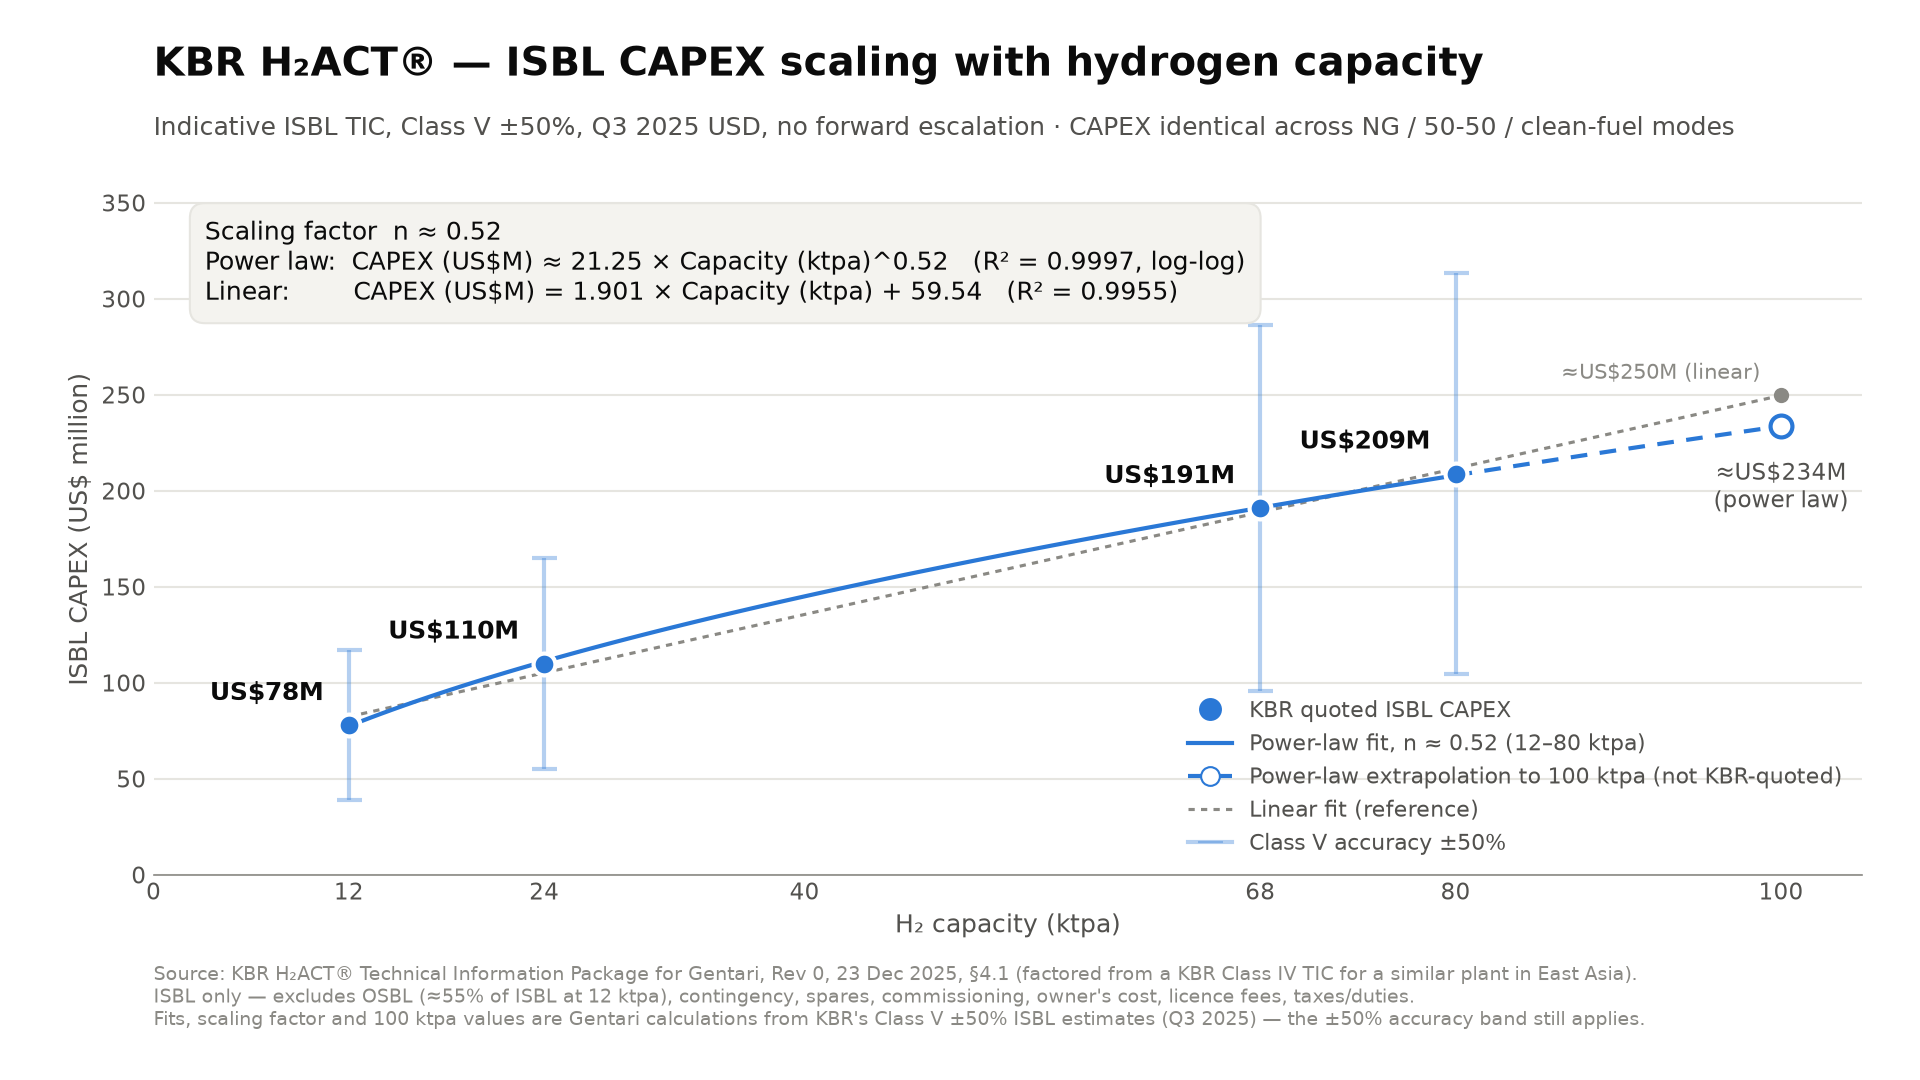
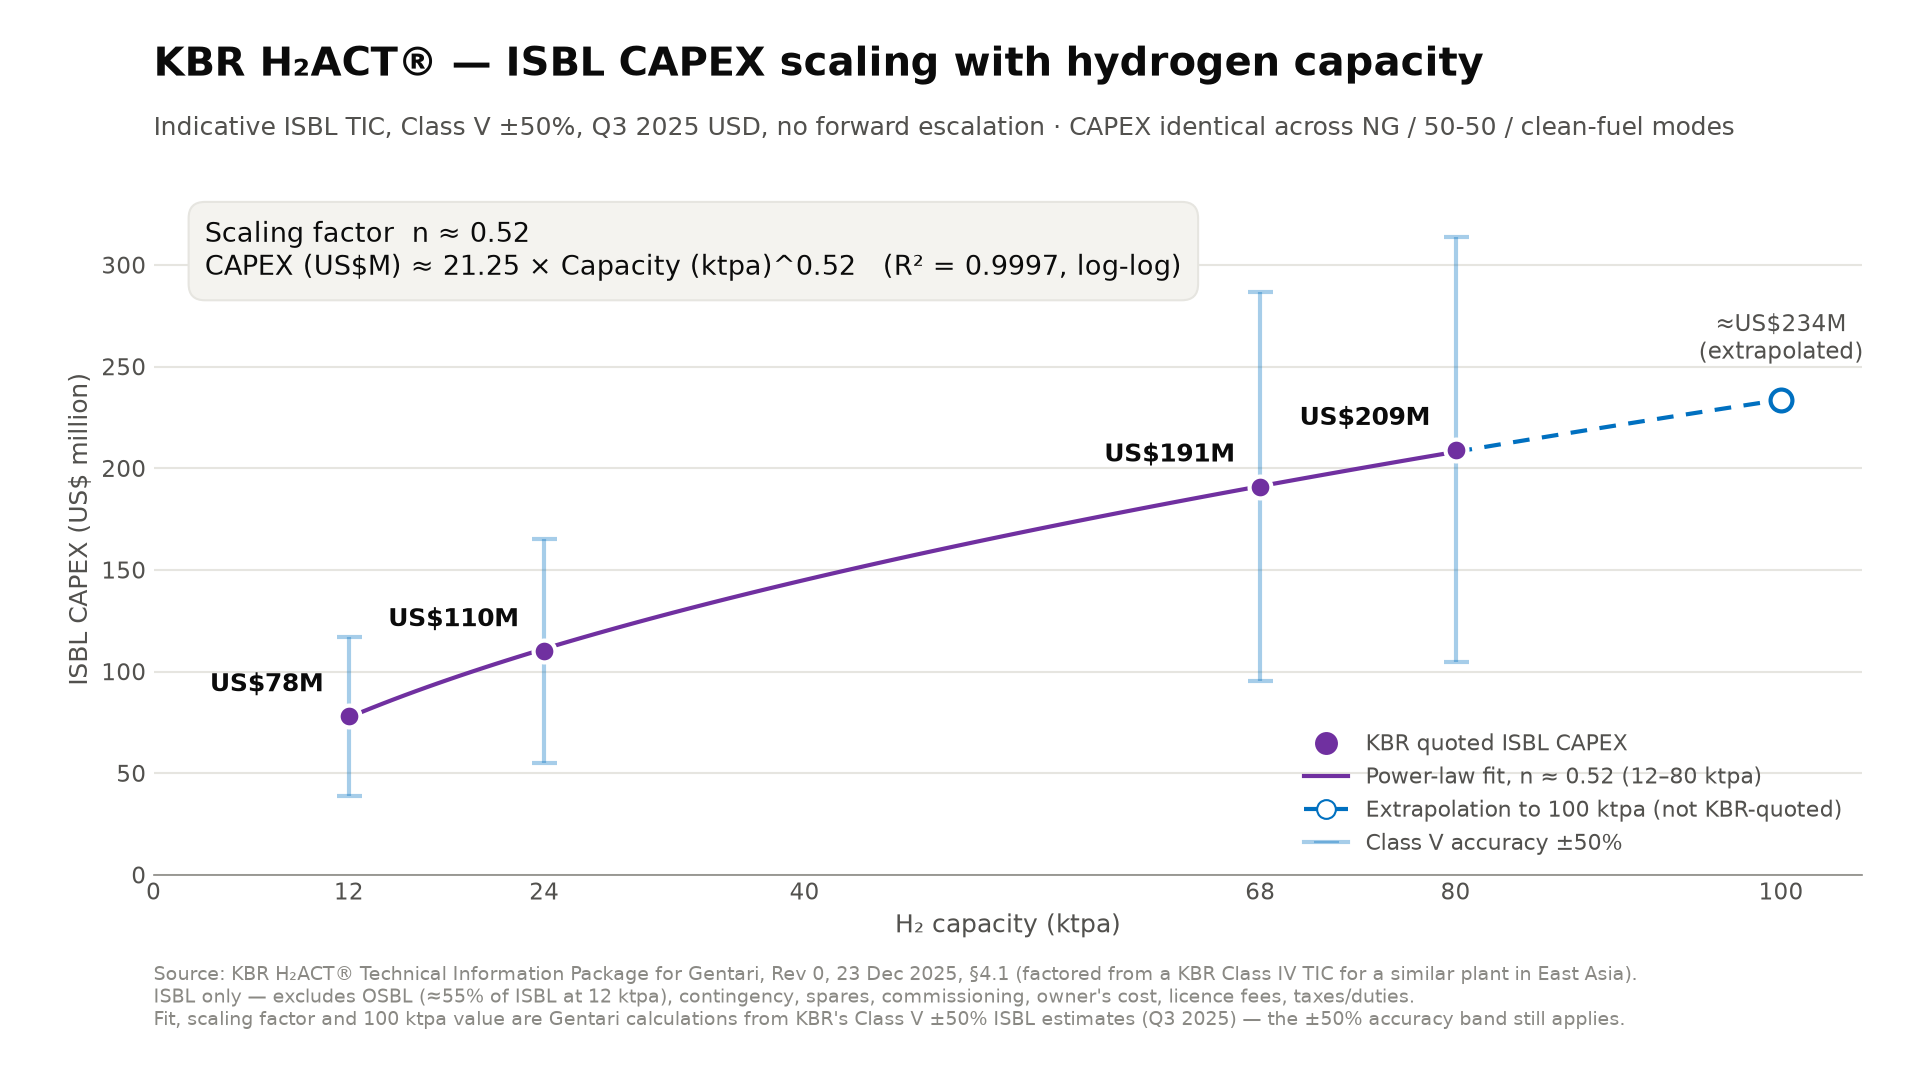
KBR CAPEX chart: power-law only, deck colours
Remove the linear reference line; use #7030A0 for quoted points and the
fitted curve, #0070C0 for the 100 ktpa extrapolation and ±50% bars.

Claude-Session: https://claude.ai/code/session_015mp414dpgytFbnaSBdpmmx

diff --git a/tools/kbr_capex_chart.py b/tools/kbr_capex_chart.py
@@ -1,4 +1,4 @@
-"""KBR H2ACT ISBL CAPEX vs H2 capacity -- power-law (n ~ 0.52) + linear fits, deck PNG.
+"""KBR H2ACT ISBL CAPEX vs H2 capacity -- power-law scaling (n ~ 0.52), deck PNG.
 
 Data: Licensor/kbr/kbr-johor-hub.md §4.1 (ISBL TIC, Class V ±50%, Q3 2025,
 no forward escalation). Output: tcoedatabase/figures/kbr_capex_scaling.png
@@ -9,6 +9,7 @@ from pathlib import Path
 import matplotlib
 matplotlib.use("Agg")
 import matplotlib.pyplot as plt
+from matplotlib.lines import Line2D
 import numpy as np
 
 CAP_KTPA = np.array([12, 24, 68, 80], dtype=float)
@@ -17,26 +18,16 @@ ACCURACY = 0.50  # Class V ±50% (kbr-johor-hub.md §4.1)
 EXTRAP_KTPA = 100
 
 INK, INK_2, MUTED, GRID = "#0b0b0b", "#52514e", "#8a8984", "#e6e5e0"
-SERIES = "#2a78d6"
+MAIN = "#7030A0"       # quoted points + fitted curve
+SECONDARY = "#0070C0"  # derived extrapolation + accuracy band
 SURFACE = "#ffffff"
 
-REF = "#8a8984"  # linear reference line (secondary)
-
-
-def r_squared(y, yhat):
-    return 1 - ((y - yhat) ** 2).sum() / ((y - y.mean()) ** 2).sum()
-
-
-# Power law (primary): CAPEX = a * cap^n, least squares in log-log space
+# Power law: CAPEX = a * cap^n, least squares in log-log space
 n, ln_a = np.polyfit(np.log(CAP_KTPA), np.log(CAPEX_MUSD), 1)
 a = np.exp(ln_a)
-r2_pow = r_squared(np.log(CAPEX_MUSD), n * np.log(CAP_KTPA) + ln_a)
+ln_y = np.log(CAPEX_MUSD)
+r2 = 1 - ((ln_y - (n * np.log(CAP_KTPA) + ln_a)) ** 2).sum() / ((ln_y - ln_y.mean()) ** 2).sum()
 extrap = a * EXTRAP_KTPA ** n
-
-# Linear (reference): CAPEX = m * cap + c
-m, c = np.polyfit(CAP_KTPA, CAPEX_MUSD, 1)
-r2_lin = r_squared(CAPEX_MUSD, m * CAP_KTPA + c)
-extrap_lin = m * EXTRAP_KTPA + c
 
 plt.rcParams.update({"font.family": "DejaVu Sans", "font.size": 11})
 fig, ax = plt.subplots(figsize=(12.8, 7.2), dpi=150, facecolor=SURFACE)
@@ -45,45 +36,36 @@ fig.subplots_adjust(left=0.08, right=0.97, top=0.83, bottom=0.19)
 
 # Class V ±50% accuracy band per quoted point
 ax.errorbar(CAP_KTPA, CAPEX_MUSD, yerr=CAPEX_MUSD * ACCURACY, fmt="none",
-            ecolor=SERIES, alpha=0.35, elinewidth=2, capsize=6, capthick=2, zorder=2)
-
-# Linear reference line (secondary, muted)
-xl = np.linspace(CAP_KTPA.min(), EXTRAP_KTPA, 50)
-ax.plot(xl, m * xl + c, color=REF, lw=1.5, ls=(0, (2, 2)), zorder=2)
+            ecolor=SECONDARY, alpha=0.35, elinewidth=2, capsize=6, capthick=2, zorder=2)
 
 # Power-law curve across quoted range, dashed extrapolation beyond it
 xs = np.linspace(CAP_KTPA.min(), CAP_KTPA.max(), 100)
-ax.plot(xs, a * xs ** n, color=SERIES, lw=2, zorder=3)
+ax.plot(xs, a * xs ** n, color=MAIN, lw=2, zorder=3)
 xe = np.linspace(CAP_KTPA.max(), EXTRAP_KTPA, 30)
-ax.plot(xe, a * xe ** n, color=SERIES, lw=2, ls=(0, (4, 3)), zorder=3)
+ax.plot(xe, a * xe ** n, color=SECONDARY, lw=2, ls=(0, (4, 3)), zorder=3)
 
 # Quoted points (surface ring) + extrapolated point (hollow)
-ax.scatter(CAP_KTPA, CAPEX_MUSD, s=110, color=SERIES, edgecolor=SURFACE,
+ax.scatter(CAP_KTPA, CAPEX_MUSD, s=110, color=MAIN, edgecolor=SURFACE,
            linewidth=2, zorder=4)
-ax.scatter([EXTRAP_KTPA], [extrap], s=110, facecolor=SURFACE, edgecolor=SERIES,
+ax.scatter([EXTRAP_KTPA], [extrap], s=110, facecolor=SURFACE, edgecolor=SECONDARY,
            linewidth=2, zorder=4)
 
 for x, y in zip(CAP_KTPA, CAPEX_MUSD):
     ax.annotate(f"US${y:.0f}M", (x, y), xytext=(-12, 12), textcoords="offset points",
                 ha="right", fontsize=12, fontweight="bold", color=INK)
-ax.annotate(f"≈US${extrap:.0f}M\n(power law)", (EXTRAP_KTPA, extrap),
-            xytext=(0, -16), textcoords="offset points", ha="center", va="top",
+ax.annotate(f"≈US${extrap:.0f}M\n(extrapolated)", (EXTRAP_KTPA, extrap),
+            xytext=(0, 16), textcoords="offset points", ha="center", va="bottom",
             fontsize=11, color=INK_2)
-ax.annotate(f"≈US${extrap_lin:.0f}M (linear)", (EXTRAP_KTPA, extrap_lin),
-            xytext=(-10, 8), textcoords="offset points", ha="right",
-            fontsize=10, color=MUTED)
-ax.scatter([EXTRAP_KTPA], [extrap_lin], s=40, color=REF, zorder=3)
 
 # Formula box
 ax.text(0.03, 0.95,
         f"Scaling factor  n ≈ {n:.2f}\n"
-        f"Power law:  CAPEX (US$M) ≈ {a:.2f} × Capacity (ktpa)^{n:.2f}   (R² = {r2_pow:.4f}, log-log)\n"
-        f"Linear:        CAPEX (US$M) = {m:.3f} × Capacity (ktpa) + {c:.2f}   (R² = {r2_lin:.4f})",
-        transform=ax.transAxes, va="top", ha="left", fontsize=12, color=INK,
+        f"CAPEX (US$M) ≈ {a:.2f} × Capacity (ktpa)^{n:.2f}   (R² = {r2:.4f}, log-log)",
+        transform=ax.transAxes, va="top", ha="left", fontsize=13, color=INK,
         bbox=dict(boxstyle="round,pad=0.6", fc="#f4f3ef", ec=GRID))
 
 ax.set_xlim(0, 105)
-ax.set_ylim(0, 360)
+ax.set_ylim(0, 340)
 ax.set_xticks([0, 12, 24, 40, 68, 80, 100])
 ax.set_xlabel("H₂ capacity (ktpa)", color=INK_2, fontsize=12)
 ax.set_ylabel("ISBL CAPEX (US$ million)", color=INK_2, fontsize=12)
@@ -94,15 +76,12 @@ for s in ("top", "right", "left"):
 ax.spines["bottom"].set_color(MUTED)
 ax.tick_params(colors=INK_2, length=0)
 
-# Legend
-from matplotlib.lines import Line2D
 handles = [
-    Line2D([], [], marker="o", ls="none", ms=10, color=SERIES, label="KBR quoted ISBL CAPEX"),
-    Line2D([], [], color=SERIES, lw=2, label=f"Power-law fit, n ≈ {n:.2f} (12–80 ktpa)"),
-    Line2D([], [], color=SERIES, lw=2, ls=(0, (4, 3)), marker="o", mfc=SURFACE, ms=9,
-           label="Power-law extrapolation to 100 ktpa (not KBR-quoted)"),
-    Line2D([], [], color=REF, lw=1.5, ls=(0, (2, 2)), label="Linear fit (reference)"),
-    Line2D([], [], color=SERIES, alpha=0.35, lw=2, marker="_", ms=12, label="Class V accuracy ±50%"),
+    Line2D([], [], marker="o", ls="none", ms=10, color=MAIN, label="KBR quoted ISBL CAPEX"),
+    Line2D([], [], color=MAIN, lw=2, label=f"Power-law fit, n ≈ {n:.2f} (12–80 ktpa)"),
+    Line2D([], [], color=SECONDARY, lw=2, ls=(0, (4, 3)), marker="o", mfc=SURFACE, ms=9,
+           label="Extrapolation to 100 ktpa (not KBR-quoted)"),
+    Line2D([], [], color=SECONDARY, alpha=0.35, lw=2, marker="_", ms=12, label="Class V accuracy ±50%"),
 ]
 ax.legend(handles=handles, loc="lower right", frameon=False, fontsize=10.5, labelcolor=INK_2)
 
@@ -116,10 +95,10 @@ fig.text(0.08, 0.045,
          "(factored from a KBR Class IV TIC for a similar plant in East Asia).\n"
          "ISBL only — excludes OSBL (≈55% of ISBL at 12 ktpa), contingency, spares, commissioning, "
          "owner's cost, licence fees, taxes/duties.\n"
-         "Fits, scaling factor and 100 ktpa values are Gentari calculations from KBR's Class V ±50% ISBL estimates (Q3 2025) — "
+         "Fit, scaling factor and 100 ktpa value are Gentari calculations from KBR's Class V ±50% ISBL estimates (Q3 2025) — "
          "the ±50% accuracy band still applies.",
          fontsize=9, color=MUTED, va="bottom")
 
 out = Path(__file__).resolve().parents[1] / "tcoedatabase" / "figures" / "kbr_capex_scaling.png"
 fig.savefig(out, facecolor=SURFACE)
-print(out, f"a={a:.4f} n={n:.4f} r2={r2_pow:.4f} pow100={extrap:.1f} | m={m:.4f} c={c:.4f} lin100={extrap_lin:.1f}")
+print(out, f"a={a:.4f} n={n:.4f} r2={r2:.4f} pow100={extrap:.1f}")

diff --git a/memory.md b/memory.md
@@ -478,3 +478,8 @@ admin-editable on the workbook's `Constants` sheet.
   between KBR points range 0.50 (12→24) to 0.55 (68→80) — slight flattening
   of scale economy at the top of the quoted range. All derived from KBR's
   Class V ±50% ISBL estimates (Q3 2025); the ±50% band still applies.
+- **2026-09-28** — Repo owner: deck chart `kbr_capex_scaling.png` now shows
+  the **power-law fit only** (linear fit removed from the chart; the linear
+  formula stays recorded above for reference). Colours set by repo owner:
+  #7030A0 main (quoted points + fitted curve), #0070C0 secondary (100 ktpa
+  extrapolation + ±50% accuracy bars).
